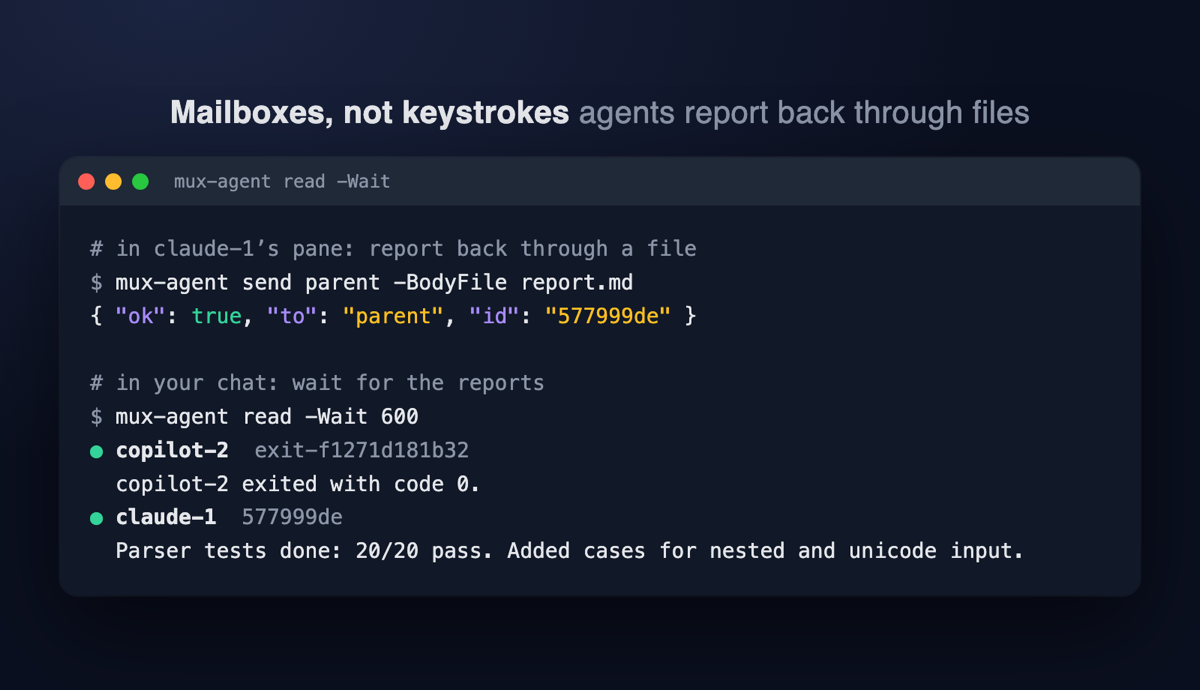
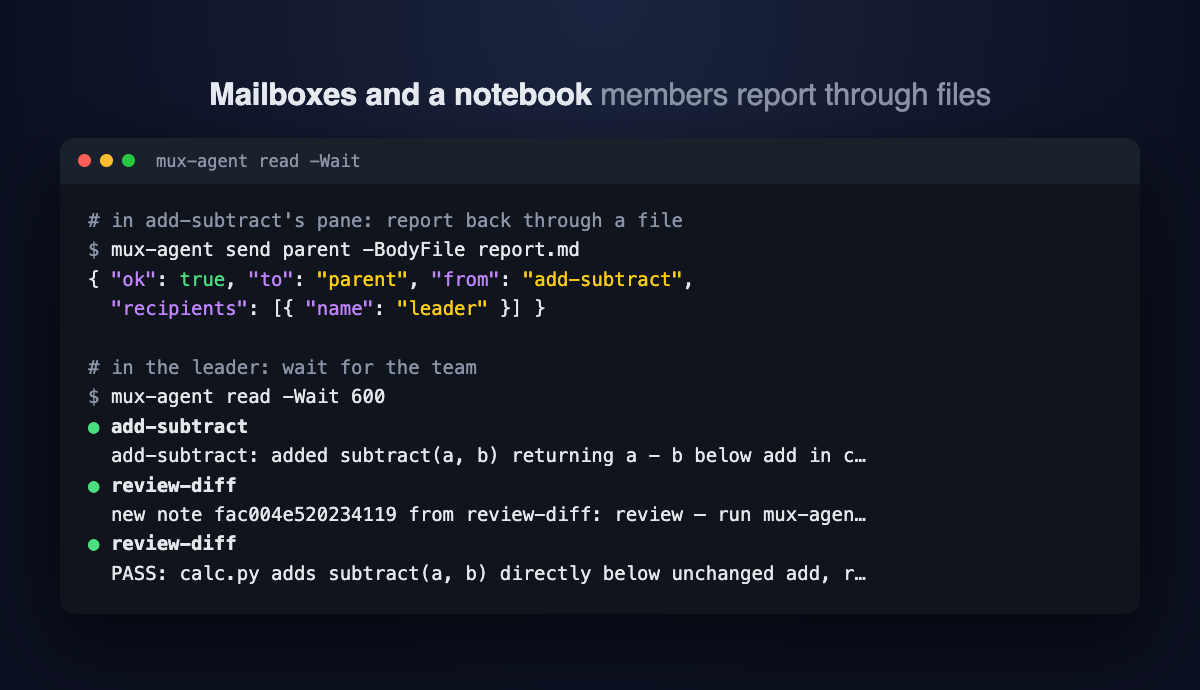
README: v0.3 screenshots of the team tree, list, mail and depth refusal

diff --git a/README.md b/README.md
@@ -18,14 +18,14 @@ Start Claude Code and Copilot CLI agents in tmux or rmux panes, see what each is
   <a href="https://github.com/D0n9X1n/mux-agents#quick-start"><img src="https://img.shields.io/badge/Copilot%20CLI-plugin-24292f?logo=githubcopilot&amp;logoColor=white" alt="Copilot CLI plugin"></a>
 </p>
 
-<p align="center"><img src="https://raw.githubusercontent.com/D0n9X1n/mux-agents/main/assets/preview/mux-agents-preview.png" alt="Your Claude Code chat on the left, three helper agents in their own panes, and the mux-agents side bar showing what each is doing"></p>
+<p align="center"><img src="https://raw.githubusercontent.com/D0n9X1n/mux-agents/main/assets/preview/mux-agents-preview.png" alt="A team in tmux: the leader's Claude Code chat on the left with its summary, three members stacked in the middle (one started by another member), and the side bar on the right showing the team tree"></p>
 
 ## Features
 
 - **Helpers in panes you can see.** Ask in your chat; choose once per session whether agents open as tabs or as panes beside you, and the side bar opens on its own.
 - **They start with your context.** A same-client agent forks your conversation; any other agent starts from a brief you write.
 - **Agents outlive their panes.** Each agent runs in its own terminal, apart from the pane you see: closing a view, killing the multiplexer server or rebooting does not end it, and `up` brings the team's views, side bar and agents back. `stop` ends an agent and everything it started; `resume` brings a stopped one back with its conversation; a failed one shows `recover` on the bar, and `resume` retries it (`-Fresh` starts a new conversation).
-- **A live side bar.** Who needs you, who just finished, who is working and who is idle, as herdr shows it, with what each is doing right now; click one to jump to it.
+- **A live side bar.** The team as a tree: who needs you, who just finished, who is working and who is idle, as herdr shows it, with what each is doing right now; click one to jump to it.
 - **Mailboxes, not keystrokes.** Agents report back through files; nothing ever types into another pane.
 - **A team notebook.** Members share durable notes; each new member sees the newest titles at launch, and the others get one mail per new note.
 - **Safe by default.** An agent never gets more than its caller already has; a refused spawn names the reason.
@@ -35,12 +35,12 @@ Start Claude Code and Copilot CLI agents in tmux or rmux panes, see what each is
 
 <table>
   <tr>
-    <td width="50%"><img src="https://raw.githubusercontent.com/D0n9X1n/mux-agents/main/assets/preview/mux-agents-sidebar.png" alt="The side bar: three live agents in their own colors, ranked as herdr ranks them (one needs you, one done with an unread message, one working), each with what it is doing; then three ended agents (done, exit 101, stopped) and +4 more"></td>
-    <td width="50%"><img src="https://raw.githubusercontent.com/D0n9X1n/mux-agents/main/assets/preview/mux-agents-list.png" alt="mux-agent list answering one JSON object with each agent's state and current step"></td>
+    <td width="50%"><img src="https://raw.githubusercontent.com/D0n9X1n/mux-agents/main/assets/preview/mux-agents-sidebar.png" alt="The side bar: the team tree with the leader, members and a member's own children, each in its own color with its state and age; a done member shows its report, and a failed one shows recover"></td>
+    <td width="50%"><img src="https://raw.githubusercontent.com/D0n9X1n/mux-agents/main/assets/preview/mux-agents-list.png" alt="mux-agent list answering one JSON object: each agent's client, activity and current step, and a failed agent marked needsRecovery with the reason"></td>
   </tr>
   <tr>
-    <td width="50%"><img src="https://raw.githubusercontent.com/D0n9X1n/mux-agents/main/assets/preview/mux-agents-mail.png" alt="An agent sends its report to the parent through a file, and read -Wait returns it with the exit notice"></td>
-    <td width="50%"><img src="https://raw.githubusercontent.com/D0n9X1n/mux-agents/main/assets/preview/mux-agents-safety.png" alt="A spawn succeeding, then a seventh spawn refused with check cap and exit 2"></td>
+    <td width="50%"><img src="https://raw.githubusercontent.com/D0n9X1n/mux-agents/main/assets/preview/mux-agents-mail.png" alt="A member sends its report to the parent through a file, and the leader's read -Wait returns it with a teammate's notebook note and review"></td>
+    <td width="50%"><img src="https://raw.githubusercontent.com/D0n9X1n/mux-agents/main/assets/preview/mux-agents-safety.png" alt="A spawn four levels deep refused with check depth, the team's depth limit of 3, and exit 2"></td>
   </tr>
 </table>
 
